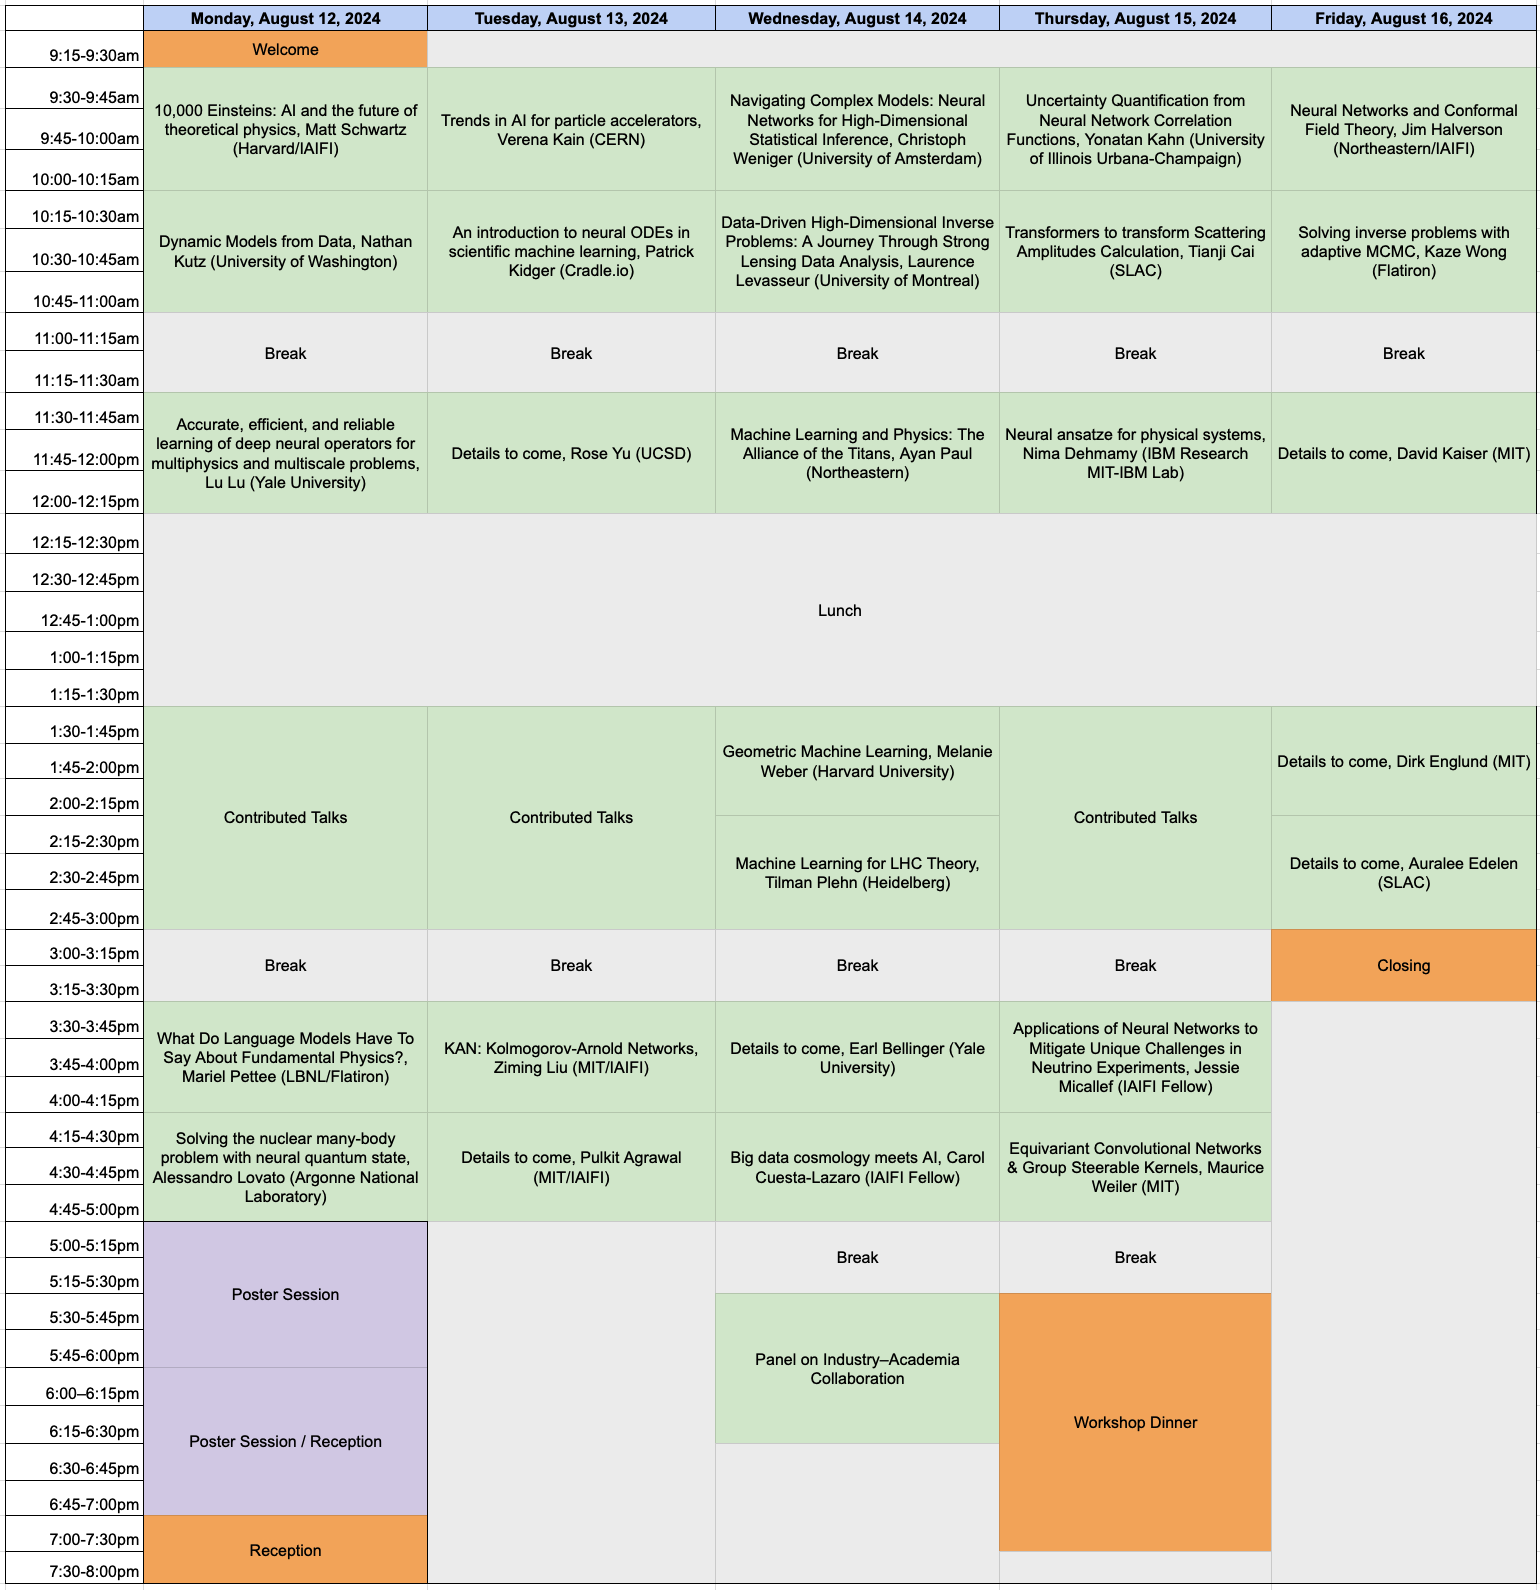
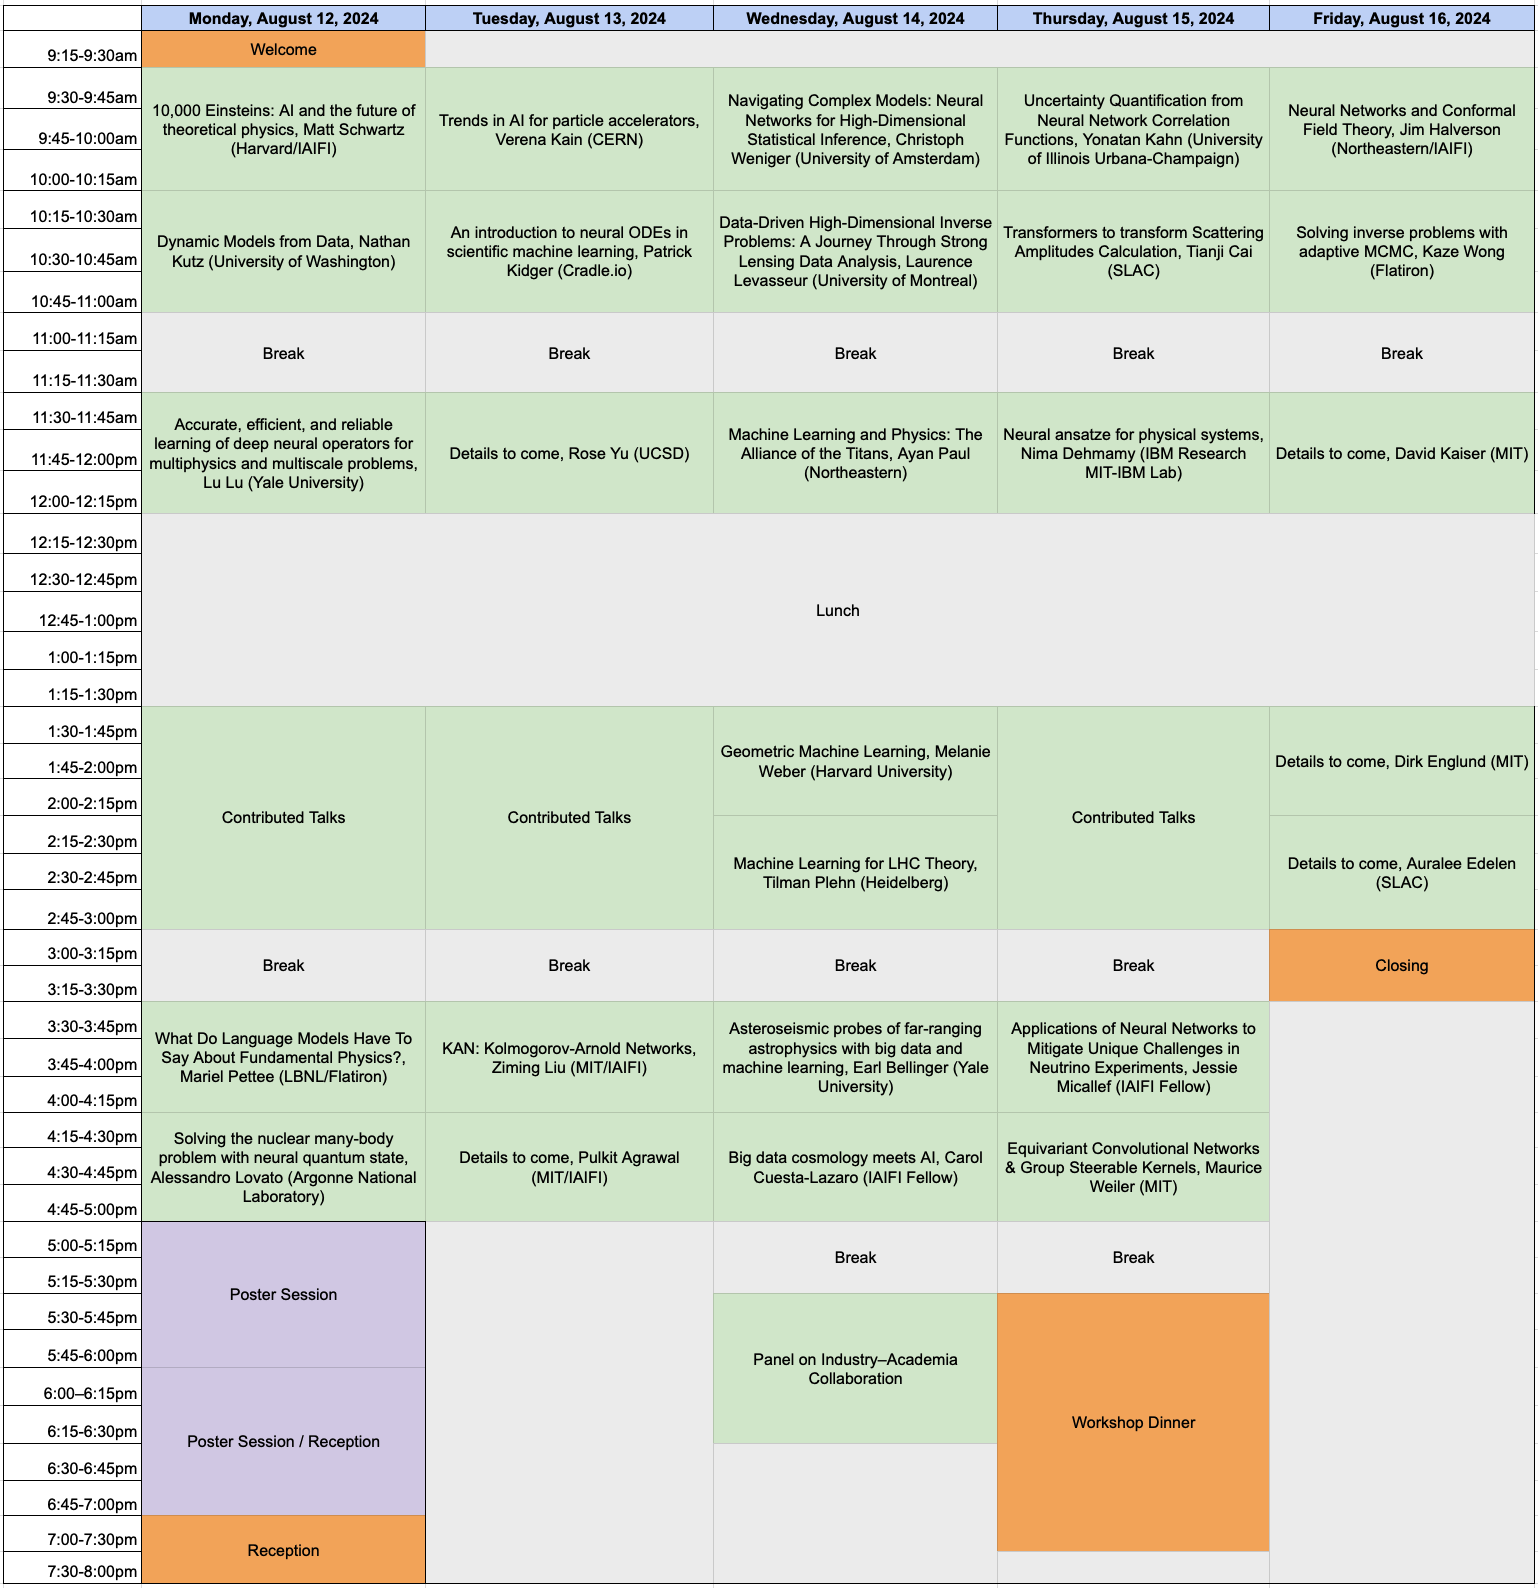
added new details to SW

diff --git a/summer-workshop.md b/summer-workshop.md
@@ -438,13 +438,13 @@ Break
 
 **3:30–4:15 pm ET**
 
-*Details to come*
+*Asteroseismic probes of far-ranging astrophysics with big data and machine learning*
 
 Earl Bellinger, Yale University
 
 <details>
 <summary>Abstract</summary>
-<em>Details to come</em>
+<em>Space telescopes like the NASA Kepler and TESS missions as well as the forthcoming PLATO mission are driving a data revolution in stellar astrophysics. The ultra-precise observations provided by these missions are challenging our best models of how stars evolve, and are in turn granting insights into the formation and evolution of planetary systems and the Galaxy as a whole. They furthermore present novel opportunities to probe far-ranging physics, such as dark matter and theories of gravity beyond general relativity. In this talk, I will give an overview of the data, models, challenges, and opportunities in asteroseismology, and highlight the role that machine learning is playing in advancing our knowledge across astrophysics.</em>
 </details>
 
 **4:15-5:00 pm ET**
